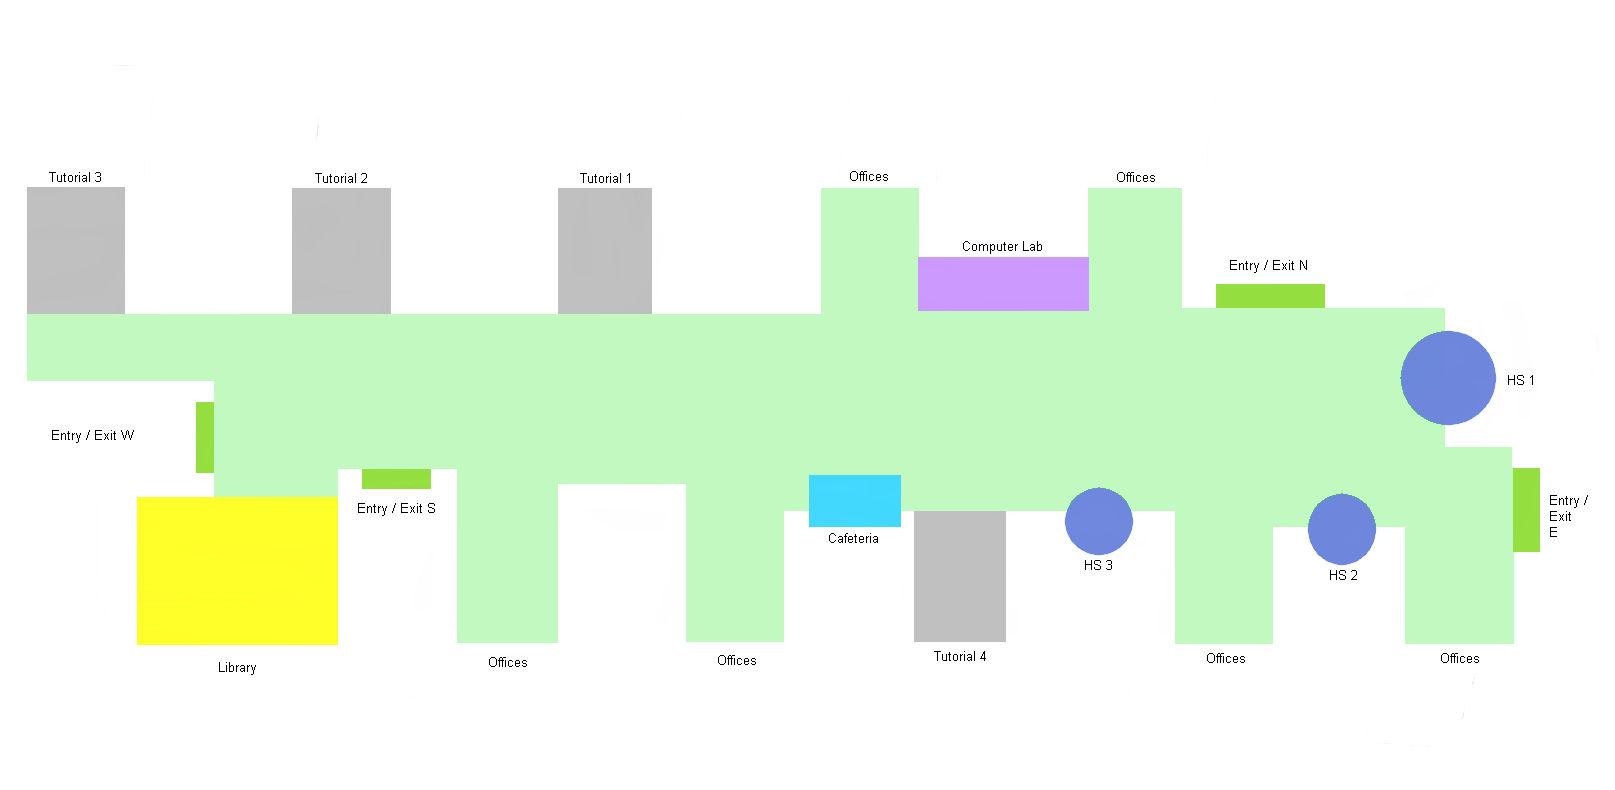
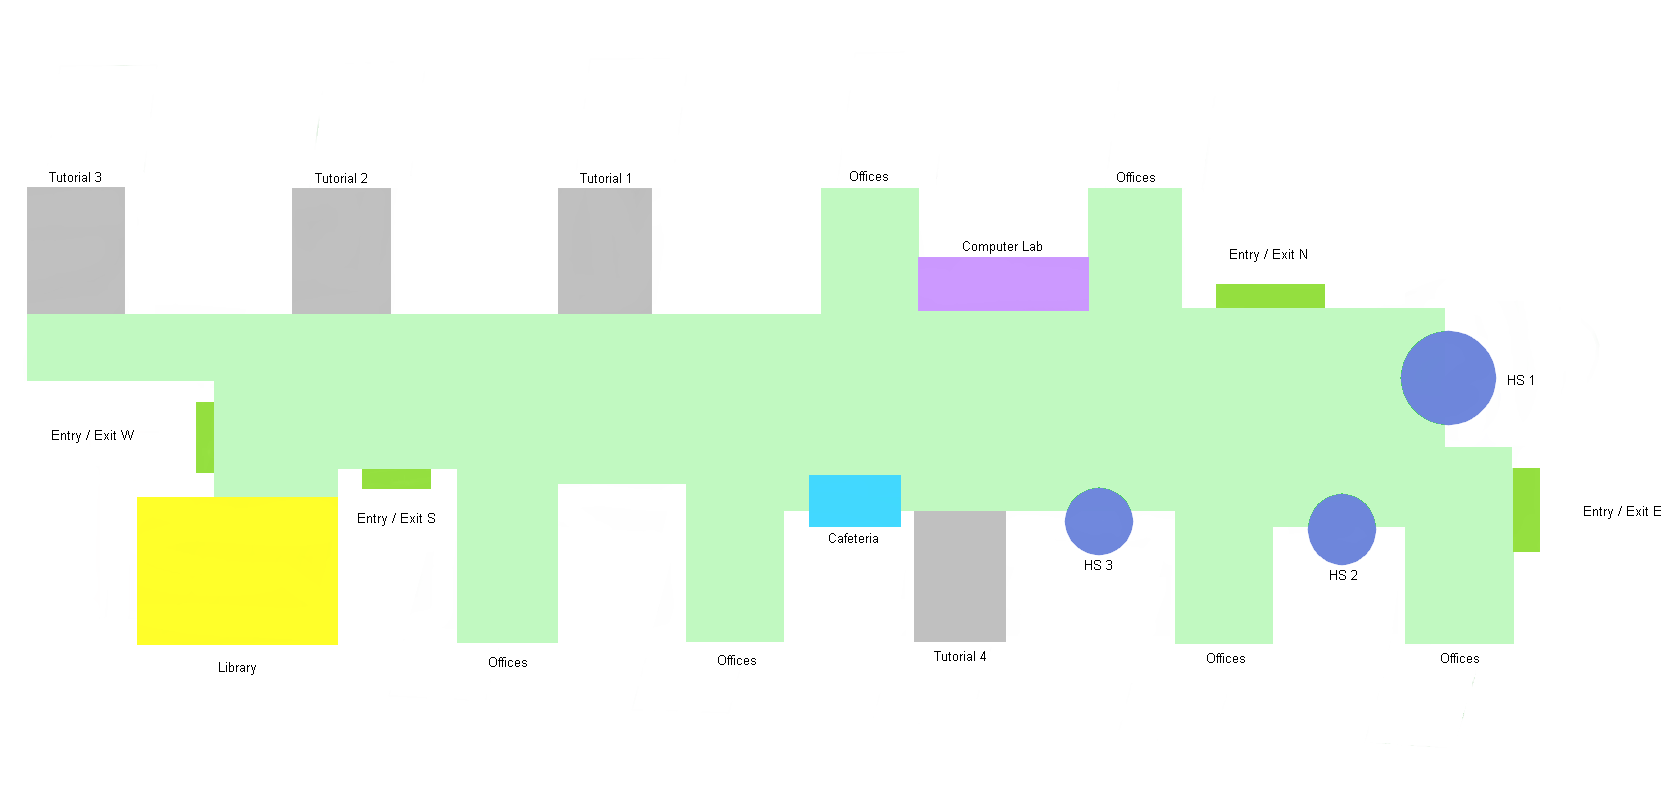
Implemented pause times + destinations for employees. Graphical fix of the map.png Minor fix of student destinations.

diff --git a/src/movement/EmployeesMovement.java b/src/movement/EmployeesMovement.java
@@ -24,7 +24,9 @@ import movement.map.SimMap;
 public class EmployeesMovement extends MapBasedMovement implements
         SwitchableMovement {
 
-    /** Per node group setting used for selecting a route file ({@value}) */
+    /**
+     * Per node group setting used for selecting a route file ({@value})
+     */
     public static final String ROUTE_FILE_S = "routeFile";
 
     /**
@@ -40,17 +42,27 @@ public class EmployeesMovement extends MapBasedMovement implements
      */
     public static final String ROUTE_FIRST_STOP_S = "routeFirstStop";
 
-    /** the Dijkstra shortest path finder */
+    /**
+     * the Dijkstra shortest path finder
+     */
     private DijkstraPathFinder pathFinder;
 
-    /** Prototype's reference to all routes read for the group */
+    /**
+     * Prototype's reference to all routes read for the group
+     */
     private List<MapRoute> allRoutes = null;
-    /** next route's index to give by prototype */
+    /**
+     * next route's index to give by prototype
+     */
     private Integer nextRouteIndex;
-    /** Index of the first stop for a group of nodes (or -1 for random) */
+    /**
+     * Index of the first stop for a group of nodes (or -1 for random)
+     */
     private int firstStopIndex = -1;
 
-    /** Route of the movement model's instance */
+    /**
+     * Route of the movement model's instance
+     */
     private MapRoute route;
 
     // attributes to define starting and ending point
@@ -71,6 +83,7 @@ public class EmployeesMovement extends MapBasedMovement implements
 
     /**
      * Creates a new movement model based on a Settings object's settings.
+     *
      * @param settings The Settings object where the settings are read from
      */
     public EmployeesMovement(Settings settings) {
@@ -105,6 +118,7 @@ public class EmployeesMovement extends MapBasedMovement implements
     /**
      * Copyconstructor. Gives a route to the new movement model from the
      * list of routes and randomizes the starting position.
+     *
      * @param proto The MapRouteMovement prototype
      */
     protected EmployeesMovement(EmployeesMovement proto) {
@@ -119,7 +133,7 @@ public class EmployeesMovement extends MapBasedMovement implements
 
         if (firstStopIndex < 0) {
             /* set a random starting position on the route */
-            this.route.setNextIndex(rng.nextInt(route.getNrofStops()-1));
+            this.route.setNextIndex(rng.nextInt(route.getNrofStops() - 1));
         } else {
             /* use the one defined in the config file */
             this.route.setNextIndex(this.firstStopIndex);
@@ -146,8 +160,8 @@ public class EmployeesMovement extends MapBasedMovement implements
         String destinationType = "";
 
         // 8am - 12am
-        if(curTime > 0 && curTime <= 14400)
-            destinationType = "office".concat(String.valueOf(rng.nextInt(6)+1));
+        if (curTime > 0 && curTime <= 14400)
+            destinationType = "office".concat(String.valueOf(rng.nextInt(6) + 1));
         else if (curTime > 14400 && curTime <= 18000) {
             percentage = getRandomPercentage();
             if (percentage <= 70)
@@ -159,16 +173,16 @@ public class EmployeesMovement extends MapBasedMovement implements
         }
         // 12 am - 1 pm
         else if (curTime > 18000 && curTime <= 36000) {
-            destinationType = "office".concat(String.valueOf(rng.nextInt(6)+1));
+            destinationType = "office".concat(String.valueOf(rng.nextInt(6) + 1));
         }
         // 1 pm - 6pm
-        else if(curTime > 36000) {
+        else if (curTime > 36000) {
             percentage = getRandomPercentage();
-            if(percentage <= 80)
+            if (percentage <= 80)
                 destinationType = "entranceN";
-            else if(percentage <= 90)
+            else if (percentage <= 90)
                 destinationType = "entranceW";
-            else if(percentage <= 95)
+            else if (percentage <= 95)
                 destinationType = "entranceS";
             else
                 destinationType = "entranceE";
@@ -196,13 +210,32 @@ public class EmployeesMovement extends MapBasedMovement implements
         return rand.nextInt(100);
     }
 
+    private double getRandomFraction() {
+        Random rand = new Random();
+        return rand.nextDouble();
+    }
+
     /**
      * Returns the first stop on the route
      */
     @Override
     public Coord getInitialLocation() {
         if (lastMapNode == null) {
-            lastMapNode = route.nextStop();
+
+            double fraction = getRandomFraction();
+            Coord location;
+
+            if (fraction < 0.8) {
+                location = getCoordFromLabel("entranceN");
+            } else if (fraction < 0.85) {
+                location = getCoordFromLabel("entranceE");
+            } else if (fraction < 0.95) {
+                location = getCoordFromLabel("entranceW");
+            } else {
+                location = getCoordFromLabel("entranceS");
+            }
+
+            lastMapNode = new MapNode(location);
         }
         this.lastWaypoint = lastMapNode.getLocation();
 
@@ -227,6 +260,7 @@ public class EmployeesMovement extends MapBasedMovement implements
 
     /**
      * Match the name of the place with the corresponding coordinates
+     *
      * @param label name of the place
      * @return coordinate of the place
      */
@@ -238,102 +272,101 @@ public class EmployeesMovement extends MapBasedMovement implements
      * Fill the hashmap with the coordinates + names of the points of interest
      */
     public void fillTheHashMap() {
-        List <MapRoute> temp;
+        List<MapRoute> temp;
         Coord temp1;
 
         fillAllOfficeCoords();
 
-        String file ="data/example/cafeteriaN.wkt";
+        String file = "data/example/cafeteriaN.wkt";
         temp = MapRoute.readRoutes(file, 1, getMap());
-        temp1 = temp.get(0).getStops().get(temp.get(0).getNrofStops()-1).getLocation();
+        temp1 = temp.get(0).getStops().get(temp.get(0).getNrofStops() - 1).getLocation();
         matchLabelWithCoord.put("cafeteria", temp1);
 
-        file ="data/example/HS1_N.wkt";
+        file = "data/example/HS1_N.wkt";
         temp = MapRoute.readRoutes(file, 1, getMap());
-        temp1 = temp.get(0).getStops().get(temp.get(0).getNrofStops()-1).getLocation();
+        temp1 = temp.get(0).getStops().get(temp.get(0).getNrofStops() - 1).getLocation();
         matchLabelWithCoord.put("HS1", temp1);
 
-        file ="data/example/HS2_N.wkt";
+        file = "data/example/HS2_N.wkt";
         temp = MapRoute.readRoutes(file, 1, getMap());
-        temp1 = temp.get(0).getStops().get(temp.get(0).getNrofStops()-1).getLocation();
+        temp1 = temp.get(0).getStops().get(temp.get(0).getNrofStops() - 1).getLocation();
         matchLabelWithCoord.put("HS2", temp1);
 
-        file ="data/example/HS3_N.wkt";
+        file = "data/example/HS3_N.wkt";
         temp = MapRoute.readRoutes(file, 1, getMap());
-        temp1 = temp.get(0).getStops().get(temp.get(0).getNrofStops()-1).getLocation();
+        temp1 = temp.get(0).getStops().get(temp.get(0).getNrofStops() - 1).getLocation();
         matchLabelWithCoord.put("HS3", temp1);
 
-        file ="data/example/tutorial1N.wkt";
+        file = "data/example/tutorial1N.wkt";
         temp = MapRoute.readRoutes(file, 1, getMap());
-        temp1 = temp.get(0).getStops().get(temp.get(0).getNrofStops()-1).getLocation();
+        temp1 = temp.get(0).getStops().get(temp.get(0).getNrofStops() - 1).getLocation();
         matchLabelWithCoord.put("tutorial1", temp1);
 
-        file ="data/example/tutorial2N.wkt";
+        file = "data/example/tutorial2N.wkt";
         temp = MapRoute.readRoutes(file, 1, getMap());
-        temp1 = temp.get(0).getStops().get(temp.get(0).getNrofStops()-1).getLocation();
+        temp1 = temp.get(0).getStops().get(temp.get(0).getNrofStops() - 1).getLocation();
         matchLabelWithCoord.put("tutorial2", temp1);
 
-        file ="data/example/tutorial3N.wkt";
+        file = "data/example/tutorial3N.wkt";
         temp = MapRoute.readRoutes(file, 1, getMap());
-        temp1 = temp.get(0).getStops().get(temp.get(0).getNrofStops()-1).getLocation();
+        temp1 = temp.get(0).getStops().get(temp.get(0).getNrofStops() - 1).getLocation();
         matchLabelWithCoord.put("tutorial3", temp1);
 
-        file ="data/example/tutorial4N.wkt";
+        file = "data/example/tutorial4N.wkt";
         temp = MapRoute.readRoutes(file, 1, getMap());
-        temp1 = temp.get(0).getStops().get(temp.get(0).getNrofStops()-1).getLocation();
+        temp1 = temp.get(0).getStops().get(temp.get(0).getNrofStops() - 1).getLocation();
         matchLabelWithCoord.put("tutorial4", temp1);
 
-        file ="data/example/computerlabN.wkt";
+        file = "data/example/computerlabN.wkt";
         temp = MapRoute.readRoutes(file, 1, getMap());
-        temp1 = temp.get(0).getStops().get(temp.get(0).getNrofStops()-1).getLocation();
+        temp1 = temp.get(0).getStops().get(temp.get(0).getNrofStops() - 1).getLocation();
         matchLabelWithCoord.put("computerlab", temp1);
 
-        file ="data/example/libraryN.wkt";
+        file = "data/example/libraryN.wkt";
         temp = MapRoute.readRoutes(file, 1, getMap());
-        temp1 = temp.get(0).getStops().get(temp.get(0).getNrofStops()-1).getLocation();
+        temp1 = temp.get(0).getStops().get(temp.get(0).getNrofStops() - 1).getLocation();
         matchLabelWithCoord.put("library", temp1);
 
         // ENTRANCES
 
-        file ="data/example/cafeteriaN.wkt";
+        file = "data/example/cafeteriaN.wkt";
         temp = MapRoute.readRoutes(file, 1, getMap());
         temp1 = temp.get(0).getStops().get(0).getLocation();
         matchLabelWithCoord.put("entranceN", temp1);
 
-        file ="data/example/cafeteriaE.wkt";
+        file = "data/example/cafeteriaE.wkt";
         temp = MapRoute.readRoutes(file, 1, getMap());
         temp1 = temp.get(0).getStops().get(0).getLocation();
         matchLabelWithCoord.put("entranceE", temp1);
 
-        file ="data/example/cafeteriaW.wkt";
+        file = "data/example/cafeteriaW.wkt";
         temp = MapRoute.readRoutes(file, 1, getMap());
         temp1 = temp.get(0).getStops().get(0).getLocation();
         matchLabelWithCoord.put("entranceW", temp1);
 
-        file ="data/example/cafeteriaS.wkt";
+        file = "data/example/cafeteriaS.wkt";
         temp = MapRoute.readRoutes(file, 1, getMap());
         temp1 = temp.get(0).getStops().get(0).getLocation();
         matchLabelWithCoord.put("entranceS", temp1);
 
         // OFFICES
-        file ="data/example/offices_patch.wkt";
+        file = "data/example/offices_patch.wkt";
         temp = MapRoute.readRoutes(file, 1, getMap());
-        for(int i = 0; i < 6; i++) {
+        for (int i = 0; i < 6; i++) {
             temp1 = temp.get(i).getStops().get(0).getLocation();
-            matchLabelWithCoord.put("office".concat(String.valueOf(i+1)), temp1);
+            matchLabelWithCoord.put("office".concat(String.valueOf(i + 1)), temp1);
         }
 
     }
 
     public void fillAllOfficeCoords() {
-        String file ="data/example/offices_patch.wkt";
-        List <MapRoute> temp = MapRoute.readRoutes(file, 1, getMap());
-        for(int i = 0; i < 6; i++) {
+        String file = "data/example/offices_patch.wkt";
+        List<MapRoute> temp = MapRoute.readRoutes(file, 1, getMap());
+        for (int i = 0; i < 6; i++) {
             Coord temp1 = temp.get(i).getStops().get(0).getLocation();
             allOfficeCoords.add(temp1);
         }
     }
-
 
 
 }

diff --git a/src/core/DTNHost.java b/src/core/DTNHost.java
@@ -445,7 +445,7 @@ public class DTNHost implements Comparable<DTNHost> {
 
 
             // add wait times based on location
-            if (this.movement instanceof MIRouteMovement) {
+            if (this.movement instanceof MIRouteMovement || this.movement instanceof EmployeesMovement) {
                 addPauseTime();
             }
 
@@ -580,8 +580,7 @@ public class DTNHost implements Comparable<DTNHost> {
     public void addPauseTime() {
         final double curTime = SimClock.getTime();
 
-        //if(this.movement.getClass().equals(MIRouteMovement.class)) {
-            //System.out.println("entra nel primo");
+        if (this.movement.getClass().equals(MIRouteMovement.class)) {
             // between 8 am and 12 am
             if (curTime >= 0 && curTime < 14400) {
                 if (this.location.equals(((MIRouteMovement) this.movement).getMatchLabelWithCoord().get("cafeteria")))
@@ -611,8 +610,8 @@ public class DTNHost implements Comparable<DTNHost> {
                     this.nextTimeToMove += 7200;
                 }
             }
-            // between 13 and 20
-            else {
+            // between 13 and 18
+            else if (curTime >= 18000 && curTime < 36000) {
                 if (this.location.equals(((MIRouteMovement) this.movement).getMatchLabelWithCoord().get("cafeteria"))) {
                     this.nextTimeToMove += 600;
                 }
@@ -629,10 +628,18 @@ public class DTNHost implements Comparable<DTNHost> {
                     this.nextTimeToMove += 7200;
                 }
             }
-        //}
-        /*
-        else if(this.movement.getClass().equals(EmployeesMovement.class)) {
-            //System.out.println("entra nel secondo");
+            // between 18 and 20
+            else {
+                if (this.location.equals(((MIRouteMovement) this.movement).getMatchLabelWithCoord().get("cafeteria"))) {
+                    this.nextTimeToMove += 600;
+                }
+                // for lecture halls / tutorial halls / library / study tables / computerlab
+                else if ((((MIRouteMovement) this.movement).getMatchLabelWithCoord().containsValue((this.location)))
+                        || (((MIRouteMovement) this.movement).getAllStudyCoords().contains((this.location)))) {
+                    this.nextTimeToMove += 3600;
+                }
+            }
+        } else if (this.movement.getClass().equals(EmployeesMovement.class)) {
             // between 8 am and 12 am
             if (curTime >= 0 && curTime < 14400) {
                 if (((EmployeesMovement) this.movement).getAllOfficeCoords().contains((this.location)))
@@ -641,20 +648,16 @@ public class DTNHost implements Comparable<DTNHost> {
                 if ((this.location.equals(((EmployeesMovement) this.movement).getMatchLabelWithCoord().get("cafeteria")))
                         || this.location.equals(((EmployeesMovement) this.movement).getMatchLabelWithCoord().get("entranceN")))
                     this.nextTimeToMove += 3600;
-            }
-            else if (curTime >= 18000 && curTime < 36000) {
+            } else if (curTime >= 18000 && curTime < 36000) {
                 if (((EmployeesMovement) this.movement).getAllOfficeCoords().contains((this.location)))
                     this.nextTimeToMove += 18000;
-            }
-            else if (curTime >= 36000)
-                   if((this.location.equals(((EmployeesMovement) this.movement).getMatchLabelWithCoord().get("entranceN"))) ||
-                            this.location.equals(((EmployeesMovement) this.movement).getMatchLabelWithCoord().get("entranceS")) ||
-                            this.location.equals(((EmployeesMovement) this.movement).getMatchLabelWithCoord().get("entranceE")) ||
-                            this.location.equals(((EmployeesMovement) this.movement).getMatchLabelWithCoord().get("entranceW")))
-                       this.nextTimeToMove += 26000;
+            } else if (curTime >= 36000)
+                if ((this.location.equals(((EmployeesMovement) this.movement).getMatchLabelWithCoord().get("entranceN"))) ||
+                        this.location.equals(((EmployeesMovement) this.movement).getMatchLabelWithCoord().get("entranceS")) ||
+                        this.location.equals(((EmployeesMovement) this.movement).getMatchLabelWithCoord().get("entranceE")) ||
+                        this.location.equals(((EmployeesMovement) this.movement).getMatchLabelWithCoord().get("entranceW")))
+                    this.nextTimeToMove += 26000;
         }
-         */
-
 
     }
 

diff --git a/src/movement/MIRouteMovement.java b/src/movement/MIRouteMovement.java
@@ -221,6 +221,7 @@ public class MIRouteMovement extends MapBasedMovement implements
         // 1pm - 4pm
         else if (curTime > 18000 && curTime <= 28800) {
             probability = getRandomFraction();
+            boolean trick = false;
 
             if (probability < 0.245) {
                 destinationType = LocationType.TUTORIAL;
@@ -233,10 +234,12 @@ public class MIRouteMovement extends MapBasedMovement implements
             } else if (probability < 0.7) {
                 destinationType = LocationType.STUDY_ZONE;
             } else {
+                trick = true;
                 // those nodes are already at the entrance N (left)
             }
 
-            destination = getCoordFromLabel(getRandomLabelOfType(destinationType));
+            if (!trick)
+                destination = getCoordFromLabel(getRandomLabelOfType(destinationType));
         }
 
         // 4pm - 6pm
@@ -371,7 +374,6 @@ public class MIRouteMovement extends MapBasedMovement implements
     @Override
     public Coord getInitialLocation() {
         if (lastMapNode == null) {
-//            lastMapNode = route.nextStop();
 
             double fraction = getRandomFraction();
             Coord location;
